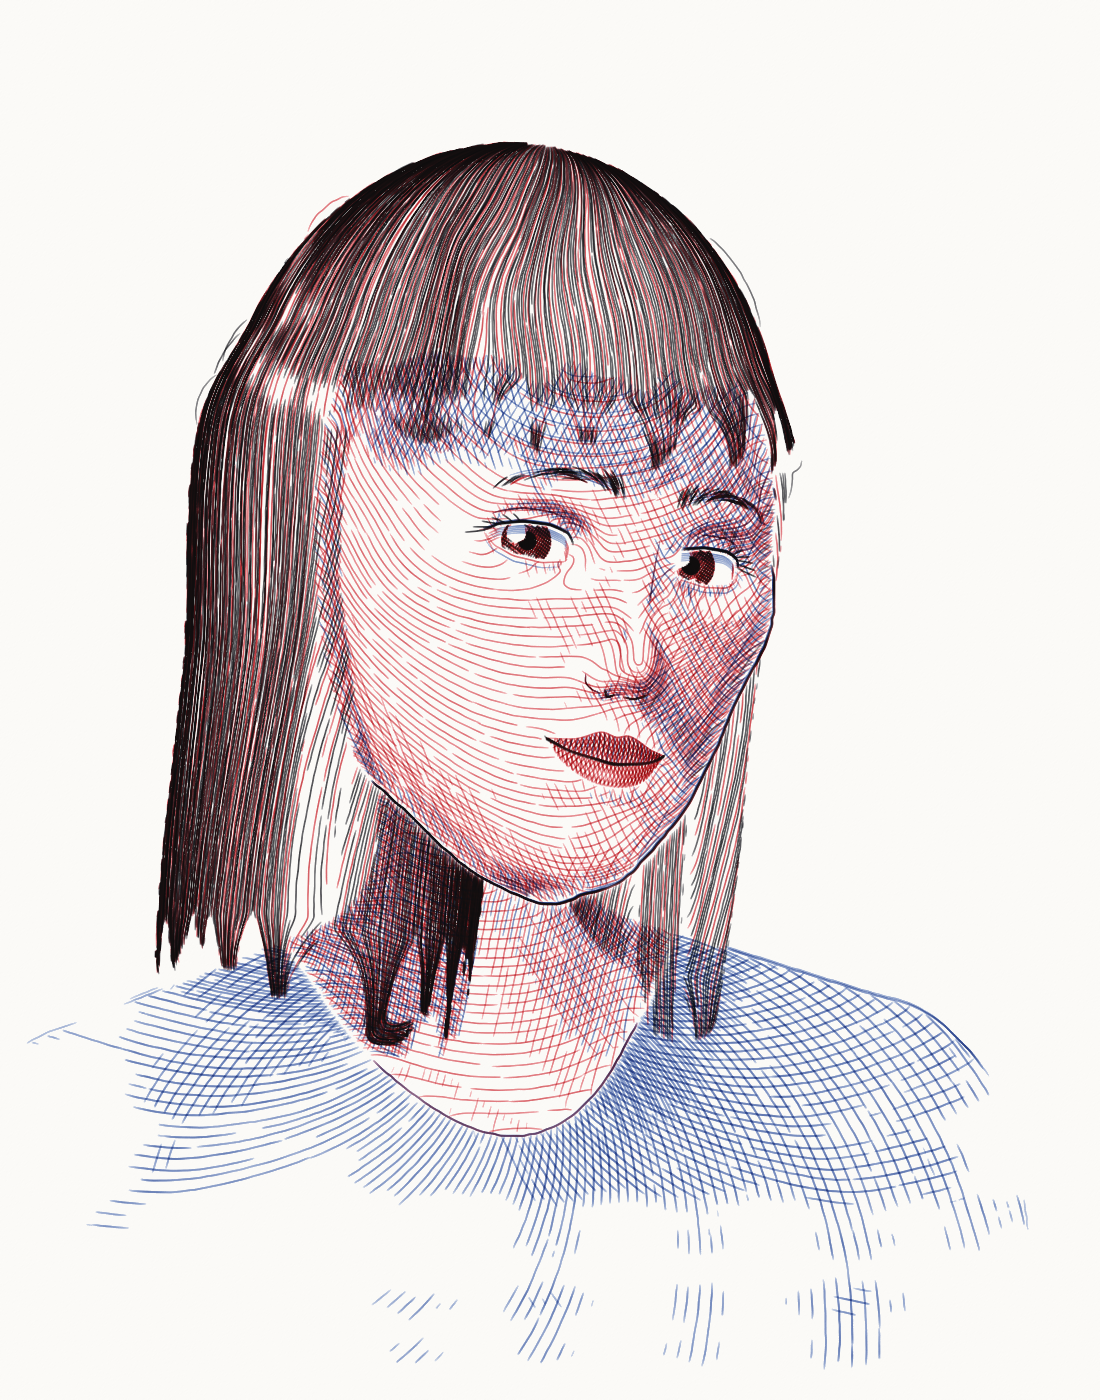
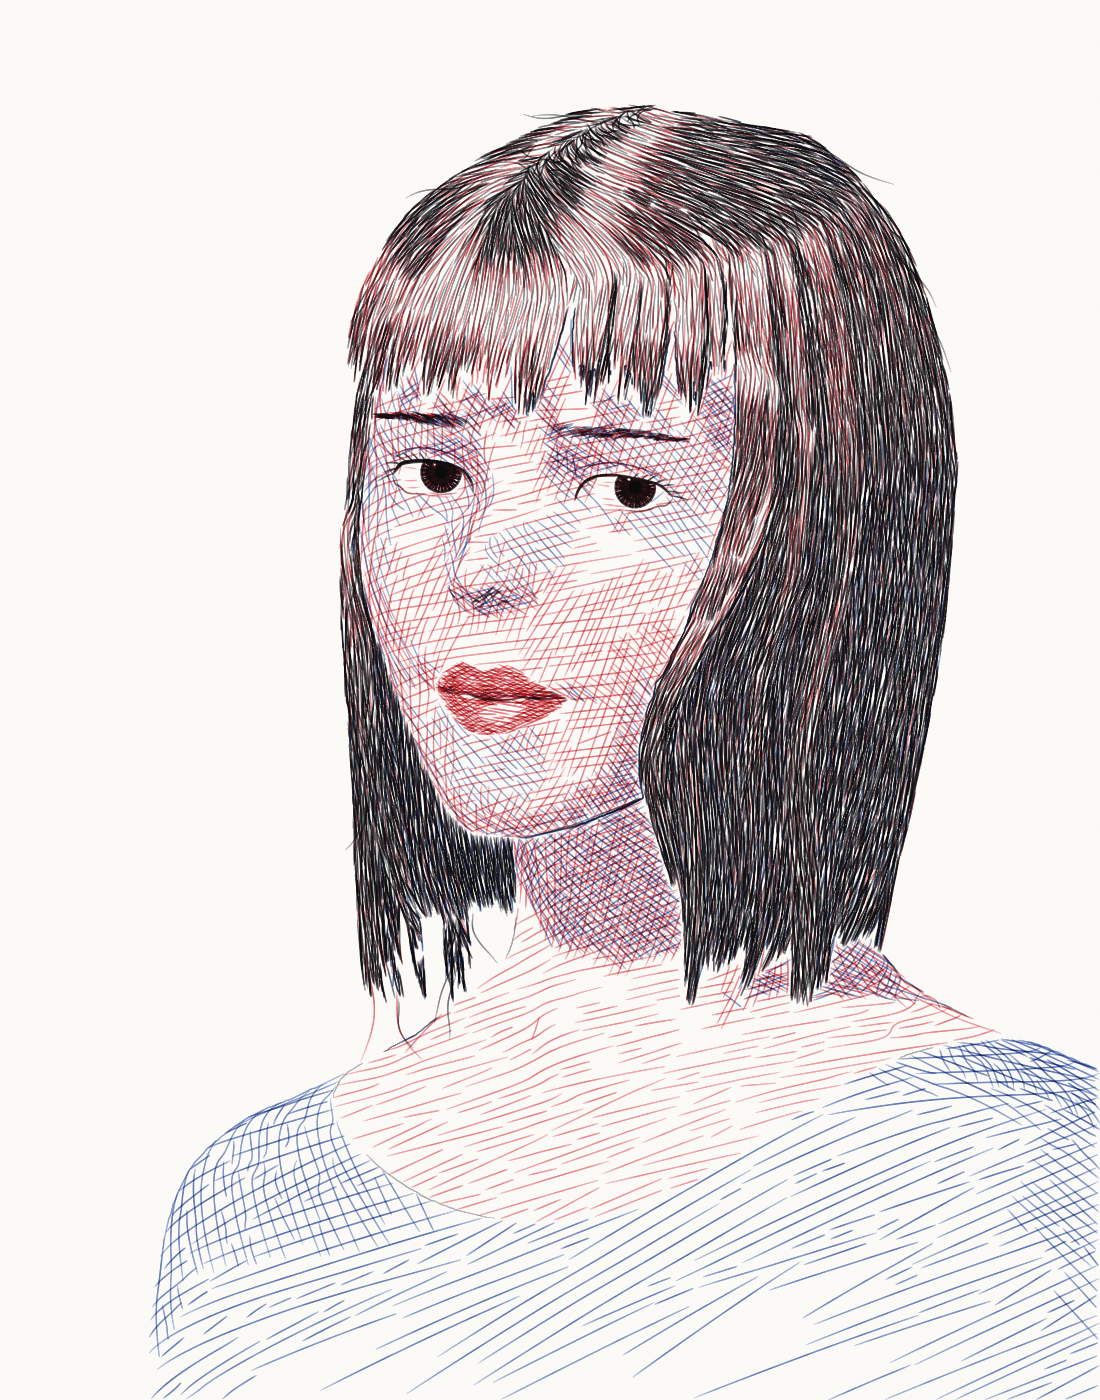
Portrait: first complete pen drawing on the modelled head
Three inks laid patch by patch over a head built on a face mesh: red for the
flesh, blue woven in for the shadows, black in the hair and the darkest lines.

Claude-Session: https://claude.ai/code/session_01EHReoi1LTNPtq461jGULpV

diff --git a/examples/portrait.py b/examples/portrait.py
@@ -1,16 +1,25 @@
-"""A portrait of a young woman, to be drawn in ballpoint pen.
+"""A portrait of a young woman, drawn in blue, black and red ballpoint.
 
-Stage 1: the head, designed and lit as a plain shaded study.
+Run from the repository root: ``python examples/portrait.py``. Writes
+``examples/output/portrait.png``; ``python examples/portrait.py FOLDER``
+also writes the shaded studies of the head and the maps the pen follows to
+FOLDER.
 
-The face is built on MediaPipe's canonical face model (Apache License 2.0),
-``examples/data/face_mesh.obj``: a neutral face surface in centimetres, x to
-the sitter's left, y up, z towards the viewer.  It is reshaped here into a
-young woman's face, its eyes are opened and given eyeballs, and a neck,
-shoulders and hair are built round it.  Everything is rendered from one
-camera, with a soft key light and a weak fill, into a grey study, a study in
-flat colours and the maps the pen work will follow.
+The head is modelled first, then drawn.  The face is built on MediaPipe's
+canonical face model (Apache License 2.0), ``examples/data/face_mesh.obj``:
+a neutral face surface in centimetres, x to the sitter's left, y up, z
+towards the viewer.  It is reshaped into a young woman's face, its eyes are
+opened and given eyeballs, and a neck, shoulders and hair laid in locks are
+built round it.  One camera and a soft light give, per pixel, what is seen,
+how it is lit, which way its surface runs and which way the hair flows.
 
-    uv run python examples/portrait.py OUTPUT_FOLDER
+The pen then works as a hand does, patch by patch: for each ink and layer
+it finds where the most tone is still wanting, lays there a bundle of
+near-parallel arcs that follow the surface, each tapering at both ends and
+keeping its distance from the others of its layer, and repeats until the
+tone is reached.  Red is the flesh, blue woven through it makes the
+shadows violet, black is kept for the darkest places; the hair is drawn
+lock by lock along its flow, and a few living lines and accents come last.
 """
 
 from __future__ import annotations
@@ -1529,7 +1538,7 @@ def brow_shape(v, idx):
         mid[:, 1:].mean() + 0.0 * (mid[:, 1:] - mid[:, 1:].mean())
     )
     # rising a touch towards the nose, against the tilt of the head
-    return line + [0, 0.12] * arch + [0, 1] * (0.1 * t) - [0, 0.3]
+    return line + [0, 0.08] * arch + [0, 1] * (0.06 * (1 - t)) - [0, 0.3]
 
 
 def brow_width(t):
@@ -1537,7 +1546,7 @@ def brow_width(t):
 
 
 def brow_strength(t):
-    head = np.clip(t / 0.25, 0, 1)
+    head = np.clip(t / 0.35, 0, 1)
     tail = np.clip((1 - t) / 0.2, 0, 1)
     return (0.25 + 0.75 * head * head * (3 - 2 * head)) * (0.5 + 0.5 * tail)
 
@@ -2251,8 +2260,9 @@ def pen_maps(model: Model) -> Maps:
 
 
 @njit(cache=False)
-def _trace(x, y, dx, dy, field, part, want, sub, target, tmin, turn, step, nmax, out,
-           full):  # fmt: skip
+def _trace(
+    x, y, dx, dy, field, part, want, sub, target, tmin, turn, step, nmax, out, full
+):
     """Follow the direction field from (x, y), setting off along (dx, dy)
     and turned by ``turn`` (radians) from the field, while on the part
     ``want``, where the target is at least ``tmin`` and no other line of
@@ -2313,7 +2323,7 @@ class Pass:
     """One layer of hatching: an ink over a part, at an angle to the
     surface's round direction, up to ``cap`` of coverage beyond ``floor``."""
 
-    pen: object
+    pen: pens.Pen
     part: int
     angle: float  # degrees from the direction round the form
     floor: float
@@ -2345,8 +2355,13 @@ class Hatcher:
         d = d / np.maximum(np.linalg.norm(d, axis=-1, keepdims=True), 1e-6)
         hair = (m.part == P_HAIR)[..., None]
         c, s = math.cos(a), math.sin(a)
-        f = np.stack([m.flow[..., 0] * c - m.flow[..., 1] * s,
-                      m.flow[..., 0] * s + m.flow[..., 1] * c], axis=-1)  # fmt: skip
+        f = np.stack(
+            [
+                m.flow[..., 0] * c - m.flow[..., 1] * s,
+                m.flow[..., 0] * s + m.flow[..., 1] * c,
+            ],
+            axis=-1,
+        )
         return np.where(hair, f, d).astype(np.float32)
 
     def lay(self, ps: Pass, target, limit=4000):
@@ -2379,8 +2394,12 @@ class Hatcher:
             return False
         turn = math.radians(rng.normal(0, 4))
         d = field[y, x]
-        d = np.array([d[0] * math.cos(turn) - d[1] * math.sin(turn),
-                      d[0] * math.sin(turn) + d[1] * math.cos(turn)])  # fmt: skip
+        d = np.array(
+            [
+                d[0] * math.cos(turn) - d[1] * math.sin(turn),
+                d[0] * math.sin(turn) + d[1] * math.cos(turn),
+            ]
+        )
         across = np.array([-d[1], d[0]])
         p = ps.pressure * rng.uniform(0.85, 1.15)
         gap = float(np.clip(line_weight(p) / max(goal[y, x], 1e-3), *ps.spacing))
@@ -2405,9 +2424,23 @@ class Hatcher:
         out = np.zeros((400, 2))
         ways = []
         for sign, ln in zip((1, -1), half, strict=True):
-            k = _trace(start[0], start[1], sign * d[0], sign * d[1], field, m.part,
-                       ps.part, sub, goal, tmin, turn, 2.0, int(ln / 2), out,
-                       self.full)  # fmt: skip
+            k = _trace(
+                start[0],
+                start[1],
+                sign * d[0],
+                sign * d[1],
+                field,
+                m.part,
+                ps.part,
+                sub,
+                goal,
+                tmin,
+                turn,
+                2.0,
+                int(ln / 2),
+                out,
+                self.full,
+            )
             ways.append(out[:k].copy())
         pts = np.vstack([ways[1][::-1], ways[0][1:]])
         return pts if len(pts) >= ps.shortest else None
@@ -2436,11 +2469,20 @@ def smoothstep(a, b, x):
 
 
 #: Where the flesh flushes: (x, y, radius, strength) in head space, mirrored.
-BLUSH = [(3.3, -1.6, 1.4, 0.07), (0.0, -0.7, 0.6, 0.06), (1.2, -1.1, 0.45, 0.05),
-         (0.0, -7.4, 0.9, 0.04), (2.9, 2.6, 0.9, 0.03)]  # fmt: skip
+BLUSH = [
+    (3.3, -1.6, 1.4, 0.07),
+    (0.0, -0.7, 0.6, 0.06),
+    (1.2, -1.1, 0.45, 0.05),
+    (0.0, -7.4, 0.9, 0.04),
+    (2.9, 2.6, 0.9, 0.03),
+]
 #: Where the shadow is cool, a violet: (x, y, radius, strength), mirrored.
-COOL = [(2.3, 3.0, 1.0, 0.07), (1.15, 0.6, 0.5, 0.05), (0.0, -5.6, 0.8, 0.07),
-        (5.6, 2.5, 1.2, 0.05)]  # fmt: skip
+COOL = [
+    (2.7, 2.7, 0.8, 0.045),
+    (1.15, 0.6, 0.5, 0.05),
+    (0.0, -5.6, 0.8, 0.07),
+    (5.6, 2.5, 1.2, 0.05),
+]
 #: Round the mouth and chin the hatching stays open and warm.
 MOUTH_ZONE = (0.0, -5.2, 2.4)
 
@@ -2471,8 +2513,10 @@ def skin_targets(m: Maps):
     blue = blue * bare
     blue = np.where(m.part == P_NECK, np.minimum(blue, 0.16), blue)
     black = np.where(face, 0.12 * smoothstep(0.85, 1.0, S), 0)
-    return {k: np.where(skin, v, 0).astype(np.float32) for k, v in
-            (("red", red), ("blue", blue), ("black", black))}  # fmt: skip
+    return {
+        k: np.where(skin, v, 0).astype(np.float32)
+        for k, v in (("red", red), ("blue", blue), ("black", black))
+    }
 
 
 def skin_passes(part):
@@ -2495,8 +2539,8 @@ def draw_skin(h: Hatcher):
 
 
 def feature_passes():
-    lips = dict(length=(25, 90), count=(4, 10), spacing=(2.2, 6.0), shortest=6)
-    white = dict(length=(14, 40), count=(3, 6), spacing=(3.0, 7.0), shortest=4)
+    lips = {"length": (25, 90), "count": (4, 10), "spacing": (2.2, 6.0), "shortest": 6}
+    white = {"length": (14, 40), "count": (3, 6), "spacing": (3.0, 7.0), "shortest": 4}
     return [
         ("red", Pass(RED, P_LIPS, 0, 0.0, 0.14, 0.3, **lips)),
         ("red", Pass(RED, P_LIPS, 25, 0.14, 0.14, 0.32, **lips)),
@@ -2549,7 +2593,9 @@ def pen_line(sheet, pts, pen, pressure, restate=1, wobble=0.6, rng=None):
         return
     for k in range(restate):
         off = rng.normal(0, wobble, 2) if k else np.zeros(2)
-        u0, u1 = (0.0, 1.0) if k == 0 else sorted(rng.uniform(0, 1, 2) * [0.4, 1] + [0, 0.1])
+        u0, u1 = (
+            (0.0, 1.0) if k == 0 else sorted(rng.uniform(0, 1, 2) * [0.4, 1] + [0, 0.1])
+        )
         n = len(pts)
         a, b = int(u0 * (n - 1)), max(int(u1 * (n - 1)) + 1, int(u0 * (n - 1)) + 2)
         seg = pts[a:b] + off
@@ -2620,15 +2666,18 @@ def draw_iris(h: Hatcher, centre, r, spot):
     m, sheet, rng = h.maps, h.sheet, h.rng
     inside = m.part == P_IRIS
     for a in np.arange(0, 2 * np.pi, np.radians(4.0)):
-        for pen, r0, r1, p in ((RED, 0.3, 0.97, 0.4), (BLACK, 0.28, 0.75, 0.35),
-                               (BLACK, 0.55, 0.98, 0.45)):  # fmt: skip
+        for pen, r0, r1, p in (
+            (RED, 0.3, 0.97, 0.4),
+            (BLACK, 0.28, 0.75, 0.35),
+            (BLACK, 0.55, 0.98, 0.45),
+        ):
             b = a + rng.normal(0, 0.04)
             d = np.array([math.cos(b), math.sin(b)])
             r0, r1 = r0 + rng.uniform(-0.05, 0.08), r1 - rng.uniform(0, 0.1)
             pts = centre + np.outer(np.linspace(r0, r1, 8) * r, d)
             clip_stroke(sheet, pts, inside, pen, p)
-    rim = centre + r * 0.93 * np.stack([np.cos(np.linspace(0, 6.3, 60)),
-                                        np.sin(np.linspace(0, 6.3, 60))], 1)  # fmt: skip
+    ring = np.linspace(0, 6.3, 60)
+    rim = centre + r * 0.93 * np.stack([np.cos(ring), np.sin(ring)], 1)
     clip_stroke(sheet, rim, inside, BOLD, 0.6)
     for k in range(-6, 7):  # the pupil
         for ang in (0.5, 2.1):
@@ -2670,16 +2719,19 @@ def draw_brow(h: Hatcher, line, scale):
         half = brow_width(t) * scale / 2
         start_side = rng.uniform(-1.0, 0.8)
         start = pts[i] + up * start_side * half
-        lean = 0.9 * max(0.0, 1 - t / 0.2) + 0.25
+        lean = 0.35 * max(0.0, 1 - t / 0.2) + 0.2
         d = unit_rows(along + up * lean)
         ln = rng.uniform(8, 15) * (1 - 0.35 * t)
         k = brow_strength(t)
         pen = BLACK if rng.uniform() < 0.45 else (RED if rng.uniform() < 0.6 else BLUE)
         edge = 1 - abs(start_side) ** 2
-        p = (0.05 + 0.2 * k) * (0.5 + 0.5 * edge)
+        p = (0.05 + 0.2 * k) * (0.5 + 0.5 * edge) * (0.55 + 0.45 * min(t / 0.3, 1))
         mid = start + d * ln / 2 + up * ln * 0.06
-        h.sheet.stroke([tuple(start), tuple(mid), tuple(start + d * ln)], pen,
-                       swell(0.3 * p, p, 0.4, 0.3))  # fmt: skip
+        h.sheet.stroke(
+            [tuple(start), tuple(mid), tuple(start + d * ln)],
+            pen,
+            swell(0.3 * p, p, 0.4, 0.3),
+        )
 
 
 def draw_eyes(h: Hatcher):
@@ -2694,6 +2746,8 @@ def draw_eyes(h: Hatcher):
 def draw_mouth(h: Hatcher):
     for run in seen_runs(h.maps.lines["mouth"]):
         run = resample(run, 2.0)
+        u = np.linspace(-1, 1, len(run))
+        run = run - np.stack([0 * u, 3.0 * np.abs(u) ** 4], 1)  # the corners lift
         pen_line(h.sheet, run, BLACK, swell(0.15, 0.6, 0.45, 0.2), 2, 0.5, h.rng)
         pen_line(h.sheet, run + [0, -0.8], RED, swell(0.2, 0.5, 0.5, 0.15), 1)
 
@@ -2706,14 +2760,18 @@ def hair_targets(m: Maps):
     black = 0.03 + 0.7 * smoothstep(0.35, 0.95, H)
     red = 0.04 + 0.22 * np.exp(-0.5 * ((H - 0.55) / 0.13) ** 2)
     blue = 0.14 * smoothstep(0.8, 1.0, H)
-    return {k: np.where(hair, v, 0).astype(np.float32) for k, v in
-            (("red", red), ("blue", blue), ("black", black))}  # fmt: skip
+    return {
+        k: np.where(hair, v, 0).astype(np.float32)
+        for k, v in (("red", red), ("blue", blue), ("black", black))
+    }
 
 
 def hair_passes():
-    kw = dict(length=(120, 340), count=(4, 9), spacing=(2.0, 10.0))
-    out = [("red", Pass(RED, P_HAIR, 3, 0.0, 0.1, 0.3, **kw)),
-           ("red", Pass(RED, P_HAIR, -4, 0.1, 0.12, 0.35, **kw))]  # fmt: skip
+    kw = {"length": (120, 340), "count": (4, 9), "spacing": (2.0, 10.0)}
+    out = [
+        ("red", Pass(RED, P_HAIR, 3, 0.0, 0.1, 0.3, **kw)),
+        ("red", Pass(RED, P_HAIR, -4, 0.1, 0.12, 0.35, **kw)),
+    ]
     for k, (a, p) in enumerate(((0, 0.3), (5, 0.38), (-4, 0.45), (2, 0.5), (-6, 0.55))):
         out.append(("black", Pass(BLACK, P_HAIR, a, 0.15 * k, 0.15, p, **kw)))
     out.insert(3, ("blue", Pass(BLUE, P_HAIR, 7, 0.0, 0.14, 0.4, **kw)))
@@ -2736,8 +2794,12 @@ def garment_targets(m: Maps):
 
 def draw_garment(h: Hatcher):
     t = garment_targets(h.maps)
-    kw = dict(length=(160, 460), count=(4, 9), spacing=(6.0, 18.0))
-    for a, lo, cap, p in ((20, 0.0, 0.05, 0.3), (-50, 0.05, 0.06, 0.32), (80, 0.11, 0.1, 0.35)):
+    kw = {"length": (160, 460), "count": (4, 9), "spacing": (6.0, 18.0)}
+    for a, lo, cap, p in (
+        (20, 0.0, 0.05, 0.3),
+        (-50, 0.05, 0.06, 0.32),
+        (80, 0.11, 0.1, 0.35),
+    ):
         h.lay(Pass(BLUE, P_GARMENT, a, lo, cap, p, **kw), t)
 
 
@@ -2782,8 +2844,11 @@ def draw_contour(h: Hatcher, line, weight, pens_):
             if k and press.max() < 0.3:
                 break
             off = h.rng.normal(0, 0.6, 2) if k else 0
-            h.sheet.stroke([tuple(q) for q in run[::2] + off], pen,
-                           list(press[::2] * (1 - 0.25 * k) + 0.005))  # fmt: skip
+            h.sheet.stroke(
+                [tuple(q) for q in run[::2] + off],
+                pen,
+                list(press[::2] * (1 - 0.25 * k) + 0.005),
+            )
 
 
 HEAD_PARTS = (P_FACE, P_LIPS, P_WHITE, P_IRIS)
@@ -2871,7 +2936,9 @@ def hair_strays(h: Hatcher, count=22):
         ln = rng.uniform(40, 110)
         bend = n[i] * rng.uniform(6, 22) * rng.choice([1, 1, -0.5])
         u = np.linspace(0, 1, 9)[:, None]
-        path = p0 + f * ln * u + bend * u**2 + n[i] * 4 * np.sin(u * 5 + rng.uniform(0, 6))
+        path = (
+            p0 + f * ln * u + bend * u**2 + n[i] * 4 * np.sin(u * 5 + rng.uniform(0, 6))
+        )
         pen = BLACK if rng.uniform() < 0.7 else RED
         h.sheet.stroke([tuple(q) for q in path], pen, swell(0.1, 0.35, 0.3, 0.25))
 
@@ -2893,18 +2960,22 @@ def drawing(m: Maps, seed=7) -> Sheet:
     draw_eyes(h)
     draw_mouth(h)
     draw_lines(h)
-    print("strokes", h.strokes)
     return sheet
 
 
-def main(out: Path):
-    out.mkdir(parents=True, exist_ok=True)
+def main(studies: Path | None = None):
+    """Draw the portrait to ``examples/output/portrait.png``; with a folder,
+    also write the shaded studies and the maps there."""
     model = build_model()
-    write_studies(model, out)
-    write_maps(model, out)
+    if studies is not None:
+        studies.mkdir(parents=True, exist_ok=True)
+        write_studies(model, studies)
+        write_maps(model, studies)
+    sheet = drawing(pen_maps(model))
+    out = HERE / "output" / "portrait.png"
+    write_png(str(out), np.round(sheet.render() * 255).astype(np.uint8))
+    print(f"wrote {out}")
 
 
 if __name__ == "__main__":
-    if len(sys.argv) != 2:
-        sys.exit("usage: portrait.py OUTPUT_FOLDER")
-    main(Path(sys.argv[1]))
+    main(Path(sys.argv[1]) if len(sys.argv) > 1 else None)
